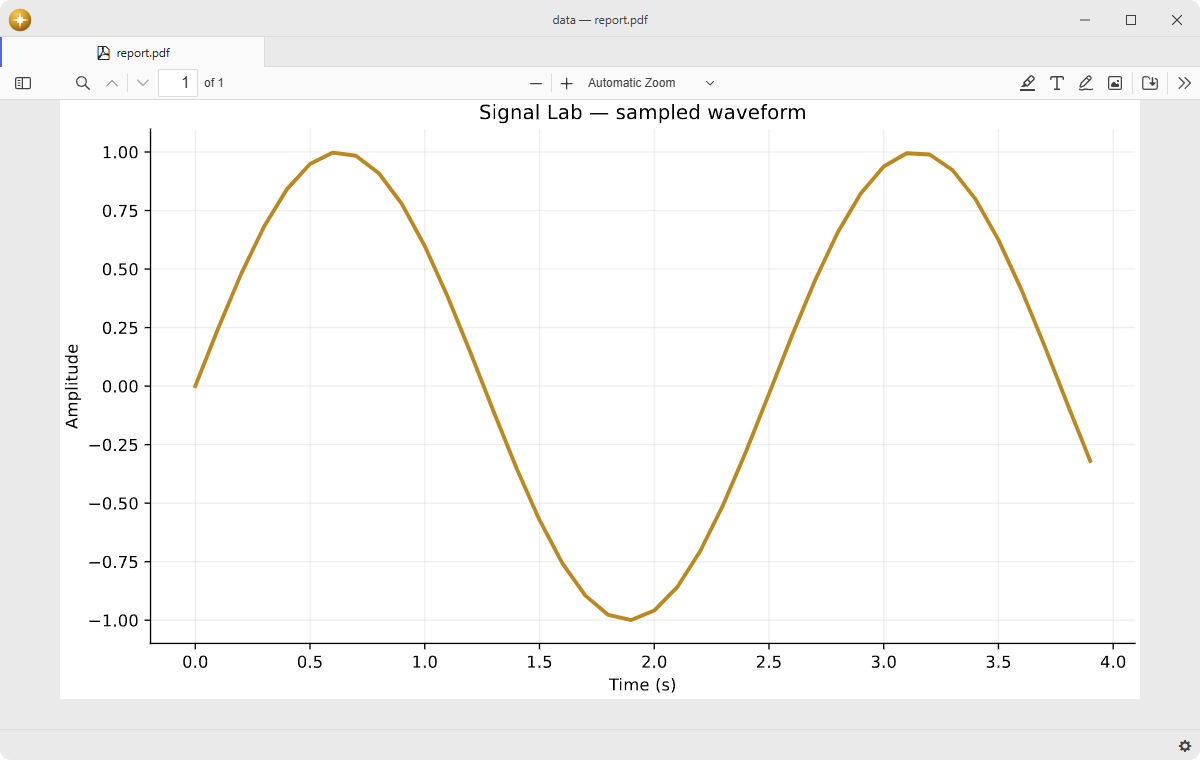
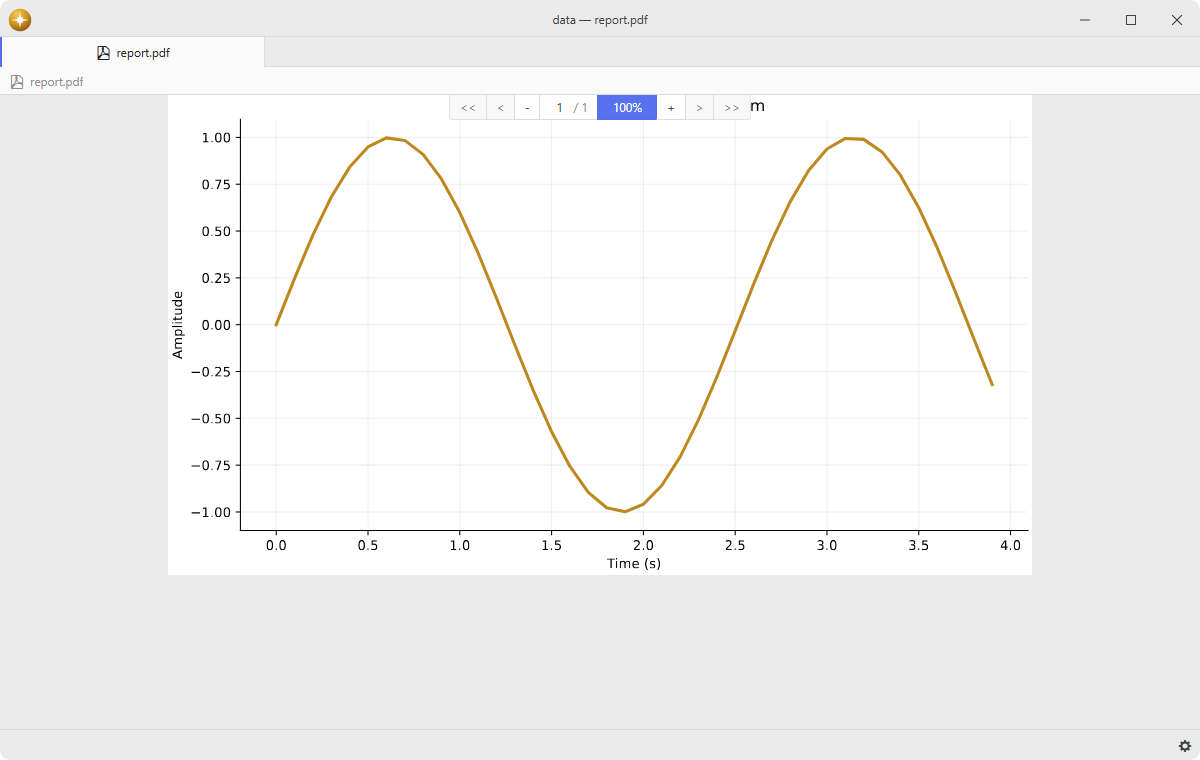
Refresh the native PDF viewing demonstration

diff --git a/README.md b/README.md
@@ -18,6 +18,8 @@ Built on Mozilla's PDF.js with native controls, document search and outline navi
 - **Auto-reload**: watches the file on disk, preserves the current view when refreshing and pauses reloads during LaTeX or Typst builds.
 - **Large documents**: reads disk ranges on demand, limits page canvases and leaves page rendering to PDF.js's rendering queue.
 
+![Read a generated signal report in the PDF viewer.](.github/demo.png)
+
 ## Installation
 
 To install `pdf-view` search for it in the Install pane of the Lumine settings, or run the command `lumine --install lumine-code/pdf-view`.
